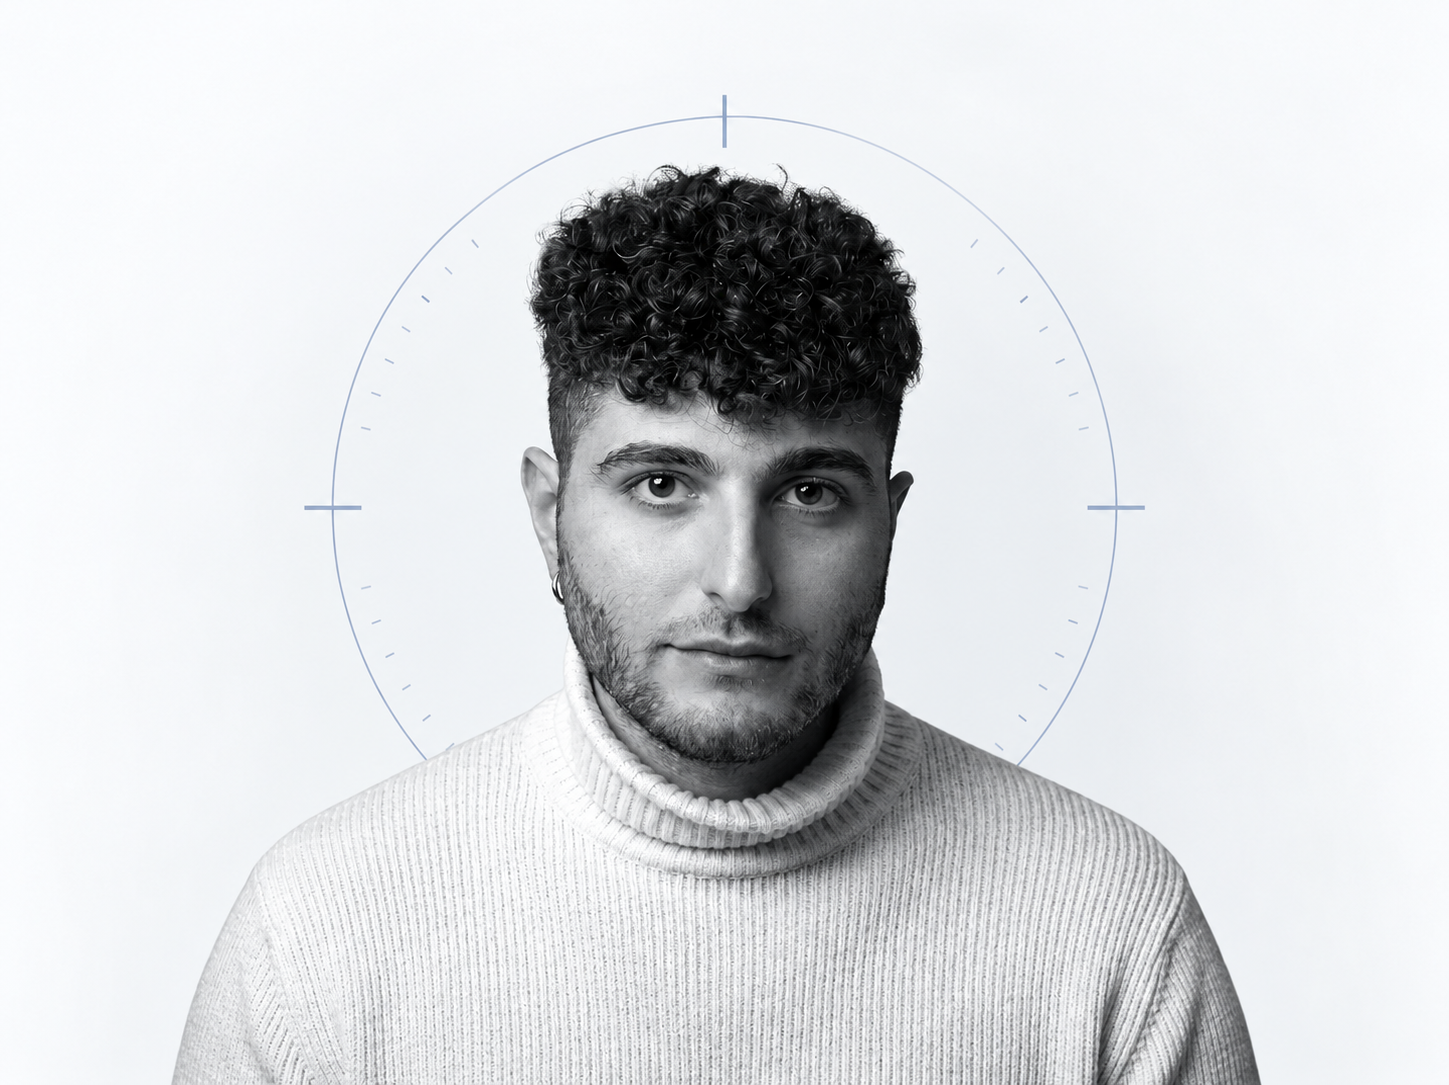
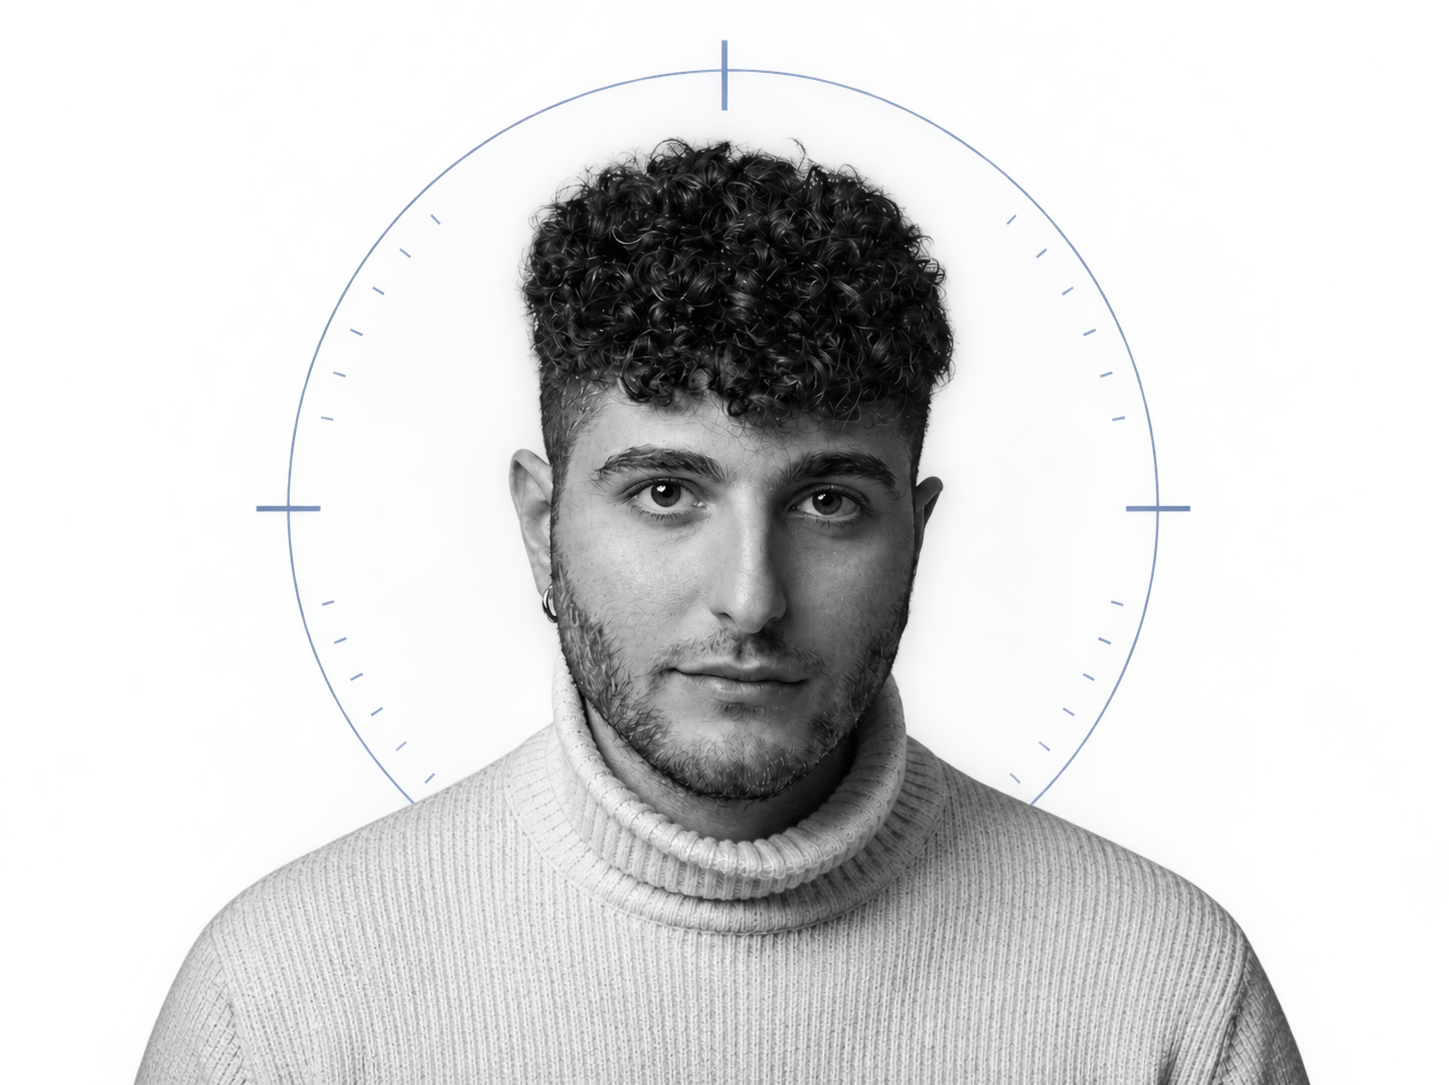
Updated the mobile menu to use HTML links and improved status handling in settings; added IDs for the About and Projects sections

diff --git a/src/components/AppSettings.jsx b/src/components/AppSettings.jsx
@@ -1,18 +1,18 @@
 //IMPORTS
 import { HexColorPicker, HexColorInput } from 'react-colorful';
-import { useState } from 'react';
+import { useState, useEffect } from 'react';
 
 export default function AppSettings({ onClose }) {
 
     //DATA
-    
+
     const htmlElement = document.documentElement;
-    
-    
+
+
     //USE STATE
     const [color, setColor] = useState(localStorage.getItem('brandColor') || '#1456e9');
-    
-     
+
+
     //FUNCTIONS
     function handleSave() {
         localStorage.setItem('brandColor', color);
@@ -20,17 +20,33 @@ export default function AppSettings({ onClose }) {
         localStorage.setItem('darkMode', htmlElement.classList.contains('dark') ? 'dark' : 'light')
         onClose()
     }
-    
-    function onCancel () {
-        if(localStorage.getItem('darkMode') === 'dark') {
+
+    function onCancel() {
+        if (localStorage.getItem('darkMode') === 'dark') {
             htmlElement.classList.add('dark')
         } else {
             htmlElement.classList.remove('dark')
         }
 
-        
+
         onClose()
     }
+
+    //USE EFFECT
+    useEffect(() => {
+
+        console.log(onClose)
+        if (!onClose) return
+
+        const original = document.body.style.overflow
+        document.body.style.overflow = 'hidden'
+
+
+        return () => {
+            document.body.style.overflow = original
+        }
+
+    }, [onClose])
     return (
 
         /* Backdrop */
@@ -82,16 +98,16 @@ export default function AppSettings({ onClose }) {
                             <h4 id="dark-mode-label" className="text-sm font-semibold">Dark mode</h4>
                             <p id="dark-mode-description" className="mt-1 text-xs leading-5 text-muted">Attiva la modalità scura</p>
                         </div>
-                        
+
                         <div className="flex items-center">
                             <label htmlFor="dark-mode"></label>
-                            <input type="checkbox" id="dark-mode" className="size-5 lg:size-6 accent-brand" defaultChecked={htmlElement.classList.contains('dark')}  onClick={() =>  htmlElement.classList.toggle('dark')}    />
+                            <input type="checkbox" id="dark-mode" className="size-5 lg:size-6 accent-brand" defaultChecked={htmlElement.classList.contains('dark')} onClick={() => htmlElement.classList.toggle('dark')} />
                         </div>
                     </section>
 
                     {/* Color picker */}
                     <section className="py-4 lg:py-5">
-                        <h4 className="text-sm font-semibold">Colore principale</h4> 
+                        <h4 className="text-sm font-semibold">Colore principale</h4>
                         <p className="mt-1 text-xs leading-5 text-muted">Personalizza il colore principale del sito. Il nuovo colore verrà applicato a tutti gli elementi principali.</p>
                         <div className="mt-4 flex flex-col gap-4 rounded-xl border border-line bg-surface p-4 md:gap-5 md:p-5 lg:flex-row lg:items-center">
                             <HexColorPicker color={color} onChange={setColor} className="max-h-52! w-full! gap-3!" />

diff --git a/src/components/AppNavBar.jsx b/src/components/AppNavBar.jsx
@@ -1,4 +1,3 @@
-import { NavLink } from "react-router-dom";
 import { useState } from "react";
 import AppMobileMenu from "./AppMobileMenu";
 import AppSettings from "./AppSettings";
@@ -8,6 +7,8 @@ export default function AppNavBar() {
     //USE STATE
     const [isOpen, setIsOpen] = useState(false)
     const [isSettingsOpen, setIsSettingsOpen] = useState(false)
+
+    
     return (
 
         <nav className="container mx-auto min-h-14 flex justify-between md:justify-normal flex-wrap md:flex-nowrap items-center p-4 gap-11" id="home" aria-label="Main Navigation">
@@ -38,28 +39,28 @@ export default function AppNavBar() {
             </button>
 
             {/* Mobile Menu */}
-       
-            {isOpen &&  <AppMobileMenu  onClose={() => setIsOpen(false)} onOpen={()=> {setIsSettingsOpen(true)}} />}
+
+            {isOpen && <AppMobileMenu onClose={() => setIsOpen(false)} onOpen={() => { setIsSettingsOpen(true) }} />}
 
             {/* Menu Settings */}
-            {isSettingsOpen && <AppSettings onClose={()=> setIsSettingsOpen(false)} onOpen={()=> setIsSettingsOpen(true)} />}
-            
+            {isSettingsOpen && <AppSettings onClose={() => setIsSettingsOpen(false)}  />}
+
 
             <span aria-hidden="true" className="hidden md:block h-12 w-px shrink-0 bg-line" /> {/* Separator */}
 
             {/* Navigation Links */}
 
-            <div className="hidden md:flex items-center justify-end gap-5 text-[0.9rem] leading-[1.2rem] font-medium grow *:hover:bg-brand/10 *:hover:text-brand cursor-pointer shrink-0 p-3 *:p-1  *:focus:bg-brand/10 *:focus:text-brand *:rounded-full">
+            <div className="hidden  md:flex items-center justify-end gap-5 text-[0.9rem] leading-[1.2rem] font-medium grow *:hover:bg-brand/10 *:hover:text-brand cursor-pointer shrink-0 p-3 *:p-1  *:focus:bg-brand/10 *:focus:text-brand *:rounded-full">
 
-                <NavLink  to="#home" onClick={() => setIsOpen(false)}>Home</NavLink>
-                <NavLink to="#about" onClick={() => setIsOpen(false)}>Chi sono</NavLink>
-                <NavLink to="#projects" onClick={() => setIsOpen(false)}>Progetti</NavLink>
-                <NavLink to="#contact" onClick={() => setIsOpen(false)}>Contatti</NavLink>
-                
+                <a href="#home" onClick={() => setIsOpen(false)}>Home</a>
+                <a href="#about" onClick={() => setIsOpen(false)}>Chi sono</a>
+                <a href="#projects" onClick={() => setIsOpen(false)}>Progetti</a>
+                <a href="#contact" onClick={() => setIsOpen(false)}>Contatti</a>
+
             </div>
 
             <span aria-hidden="true" className="hidden md:block h-12 w-px shrink-0 bg-line" /> {/* Separator */}
-            
+
             {/* Settings menu */}
 
             <button className="hidden md:flex items-center gap-5 text-md font-medium cursor-pointer shrink-0 p-3" onClick={() => setIsSettingsOpen(true)}>

diff --git a/src/components/AppMobileMenu.jsx b/src/components/AppMobileMenu.jsx
@@ -5,14 +5,14 @@ export default function AppMobileMenu({ onClose, onOpen }) {
     return (
 
         
-        <div className="basis-full md:hidden flex flex-col items-center gap-2.5 text-[0.9rem] leading-[1.2rem] font-medium grow *:hover:bg-brand/10 *:hover:text-brand cursor-pointer  p-3 *:p-1  *:focus:bg-brand/10 *:focus:text-brand *:rounded-full" id="mobile-menu" aria-label="Mobile Navigation">
+        <div className="basis-full md:hidden flex flex-col items-start gap-2.5 text-[0.9rem] leading-[1.2rem] font-medium grow *:hover:bg-brand/10 *:hover:text-brand cursor-pointer  p-3 *:p-1  *:focus:bg-brand/10 *:focus:text-brand *:rounded-full" id="mobile-menu" aria-label="Mobile Navigation">
 
             {/* Navigation Links */}
             
-            <NavLink to="#home" onClick={onClose}>Home</NavLink>
-            <NavLink to="#about" onClick={onClose}>Chi sono</NavLink>
-            <NavLink to="#projects" onClick={onClose}>Progetti</NavLink>
-            <NavLink to="#contact" onClick={onClose}>Contatti</NavLink>
+            <a href="#home" onClick={onClose}>Home</a>
+            <a href="#about" onClick={onClose}>Chi sono</a>
+            <a href="#projects" onClick={onClose}>Progetti</a>
+            <a href="#contact" onClick={onClose}>Contatti</a>
 
             <button onClick={onOpen}>
                 <svg xmlns="http://www.w3.org/2000/svg" fill="none" viewBox="0 0 24 24" strokeWidth="1.5" stroke="currentColor" className="size-6">

diff --git a/src/sections/AppProjectsSection.jsx b/src/sections/AppProjectsSection.jsx
@@ -4,7 +4,7 @@ export default function AppProjectsSection() {
     return (
 
         /* Projects section */
-        <div className="border-b border-line md:py-2 lg:py-5">
+        <div id="projects" className="border-b border-line md:py-2 lg:py-5">
             <section className="container mx-auto px-[27px] py-9 lg:pt-[18px] lg:pb-[26px] bg-canvas">
 
                 {/* Title and button */}

diff --git a/src/sections/AppAboutSection.jsx b/src/sections/AppAboutSection.jsx
@@ -6,7 +6,7 @@ export default function AppAboutSection() {
 
         /* About section */
 
-        <section className="bg-soft " aria-label="About-section">
+        <section id="about" className="bg-soft " aria-label="About-section">
 
             <div className="border-y border-line md:py-2 lg:py-5 xl:py-7">
 
